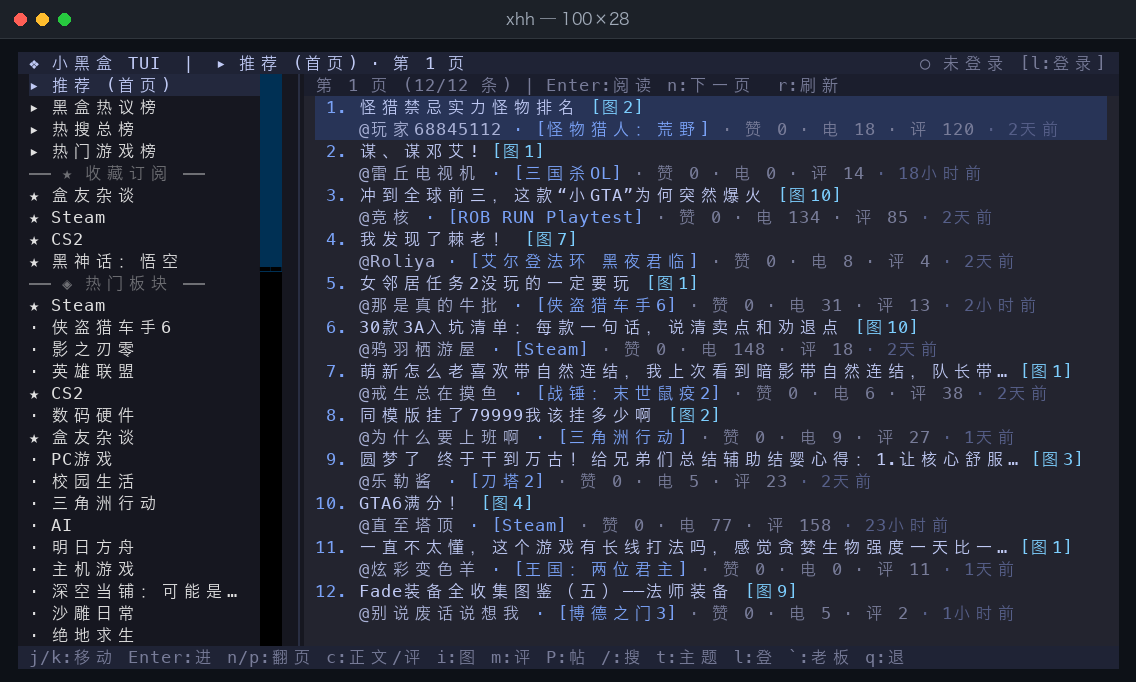
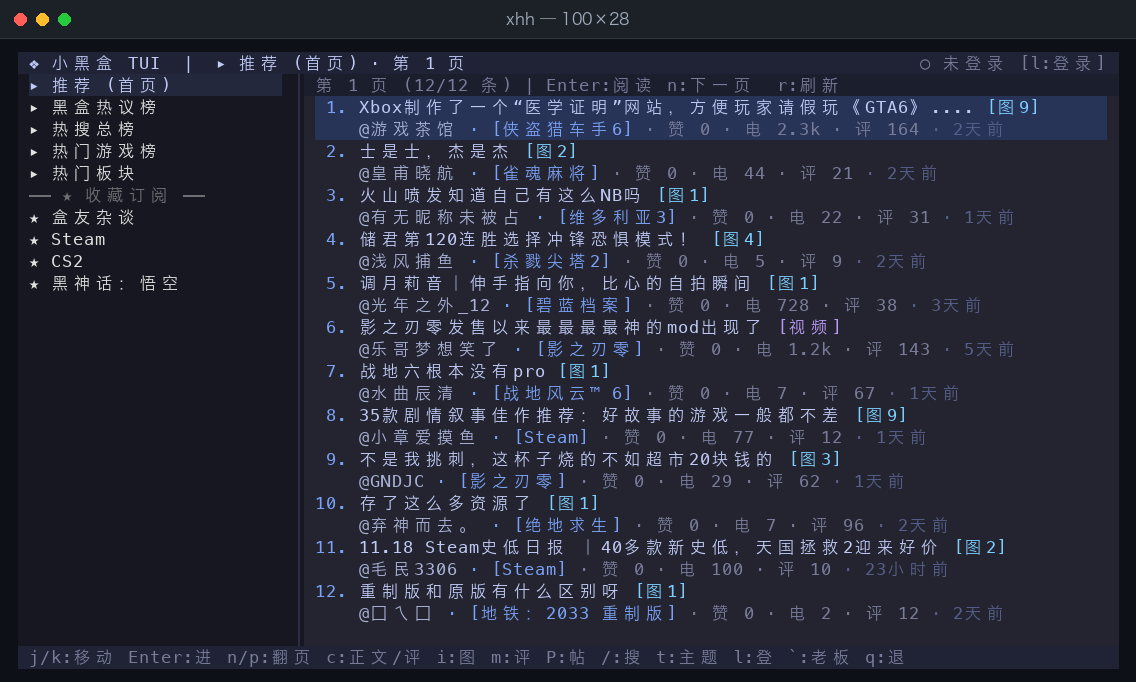
refactor(tui): hide sidebar scrollbar and move hot topics into paginated directory view

diff --git a/src/xhh/tui/app.py b/src/xhh/tui/app.py
@@ -172,11 +172,13 @@ class HeyboxApp(App[None]):
         self._sidebar_map: dict[str, dict[str, Any]] = {}
         self._hot_topics: list[TopicItem] = []
         self._subscribed_topics: list[TopicItem] = []
-        self._view_mode: str = "feed"  # "feed" | "hot" | "topic" | "search_posts"
+        self._view_mode: str = "feed"  # "feed" | "hot" | "topics" | "topic" | "search_posts"
         self._current_hot_tab: str = "news"
         self._current_topic: TopicItem | None = None
         self._topic_is_hot: bool = False
         self._topic_sort_idx: int = 0
+        self._topics_page: int = 1
+        self._topics_dir_items: list[TopicItem] = []
 
         # 缓冲与自适应分页状态
         self._feed_page: int = 1
@@ -300,6 +302,8 @@ class HeyboxApp(App[None]):
                     self._render_search_posts_page(self._feed_page)
                 elif self._view_mode == "hot" and self._hot_items:
                     self._render_hot_list()
+                elif self._view_mode == "topics" and self._hot_topics:
+                    self._render_topics_directory()
 
     def _schedule_load(self, coro: Any) -> None:
         if self._load_task and not self._load_task.done():
@@ -389,6 +393,8 @@ class HeyboxApp(App[None]):
             elif self._view_mode == "hot":
                 name = HOT_TAB_TITLES.get(self._current_hot_tab, "rank")
                 title.update(f"xhh :: {name} [p.{self._hot_page}]")
+            elif self._view_mode == "topics":
+                title.update(f"xhh :: topics [p.{self._topics_page}]")
             elif self._view_mode == "topic" and self._current_topic:
                 tab_str = "1.all/[2.hot]" if self._topic_is_hot else "[1.all]/2.hot"
                 sort_label = SORT_MODES[self._topic_sort_idx][1]
@@ -404,6 +410,8 @@ class HeyboxApp(App[None]):
         elif self._view_mode == "hot":
             name = HOT_TAB_TITLES.get(self._current_hot_tab, "热点榜单")
             title.update(f"❖ 小黑盒 TUI  |  ▸ {name} · 第 {self._hot_page} 页")
+        elif self._view_mode == "topics":
+            title.update(f"❖ 小黑盒 TUI  |  ◈ 热门板块 · 第 {self._topics_page} 页")
         elif self._view_mode == "topic" and self._current_topic:
             tab_str = "1.综合 / [2.热点]" if self._topic_is_hot else "[1.综合] / 2.热点"
             sort_label = SORT_MODES[self._topic_sort_idx][1]
@@ -426,6 +434,7 @@ class HeyboxApp(App[None]):
             ("nav:hot:news", "* 热议榜" if stealth else "▸ 黑盒热议榜", {"mode": "hot", "tab": "news"}),
             ("nav:hot:fusion", "* 热搜榜" if stealth else "▸ 热搜总榜", {"mode": "hot", "tab": "fusion"}),
             ("nav:hot:gamev2", "* 游戏榜" if stealth else "▸ 热门游戏榜", {"mode": "hot", "tab": "gamev2"}),
+            ("nav:topics", "* 热门板块" if stealth else "▸ 热门板块", {"mode": "topics"}),
         ]
         for oid, label, meta in nav_items:
             self._sidebar_map[oid] = meta
@@ -449,20 +458,6 @@ class HeyboxApp(App[None]):
             self._sidebar_map[oid] = {"mode": "topic", "topic": t}
             tname = _truncate_single_line(self._fmt_text(t.name), 18)
             options.append(Option(f"+ {tname}" if stealth else f"★ {tname}", id=oid))
-
-        options.append(Option("-- 热门板块 --" if stealth else "── ◈ 热门板块 ──", id="hdr:hot", disabled=True))
-        for t in self._hot_topics:
-            if not (t.name or "").strip():
-                continue
-            tid = str(t.topic_id)
-            oid = f"nav:topic:hot:{tid}"
-            self._sidebar_map[oid] = {"mode": "topic", "topic": t}
-            tname = _truncate_single_line(self._fmt_text(t.name), 18)
-            if stealth:
-                prefix = "* " if self.app_config.is_favorite(tid) else "- "
-            else:
-                prefix = "★ " if self.app_config.is_favorite(tid) else "· "
-            options.append(Option(f"{prefix}{tname}", id=oid))
 
         sidebar.set_options(options)
         if prev_hl is not None and 0 <= prev_hl < len(options):
@@ -620,6 +615,69 @@ class HeyboxApp(App[None]):
             feed_list.scroll_home(animate=False)
         tab_name = HOT_TAB_TITLES.get(self._current_hot_tab, "热榜")
         subbar.update(f"{tab_name} 第 {self._hot_page}/{max_page} 页 | Enter:直达板块/搜索 n/p:翻页 r:刷新")
+
+    async def _open_topics_directory(self, page: int = 1) -> None:
+        self._view_mode = "topics"
+        self._topics_page = page
+        self.query_one("#content-switcher", ContentSwitcher).current = "list-pane"
+        if not self._hot_topics:
+            self.query_one("#list-subbar", Static).update("正在加载热门板块...")
+            await self._load_categories()
+        self._render_topics_directory()
+
+    def _render_topics_directory(self) -> None:
+        subbar = self.query_one("#list-subbar", Static)
+        feed_list = self.query_one("#feed-list", OptionList)
+        self._topics_dir_items = [t for t in self._hot_topics if (t.name or "").strip()]
+        page_size = self._get_hot_page_size()
+        self._last_rendered_feed_page_size = page_size
+        max_page = max(1, (len(self._topics_dir_items) + page_size - 1) // page_size)
+        self._topics_page = max(1, min(self._topics_page, max_page))
+        start = (self._topics_page - 1) * page_size
+        page_items = self._topics_dir_items[start : start + page_size]
+        self._has_more_feeds = self._topics_page < max_page
+        self._update_top_title()
+        max_w = self._get_content_width()
+        stealth = self.is_stealth
+
+        options: list[Option] = []
+        for offset_i, topic in enumerate(page_items):
+            abs_idx = start + offset_i
+            tid = str(topic.topic_id)
+            is_fav = self.app_config.is_favorite(tid)
+            t = Text()
+            rank_str = f"{abs_idx + 1:>2}. "
+            fav_tag = (" * " if is_fav else "   ") if stealth else (" ★ " if is_fav else "   ")
+            id_tail = f"  (id:{tid})"
+            name_raw = self._fmt_text(topic.name)
+            short_name = _truncate_single_line(
+                name_raw, max(12, max_w - cell_len(rank_str) - cell_len(fav_tag) - cell_len(id_tail))
+            )
+            if stealth:
+                t.append(rank_str, style="#687078")
+                t.append(fav_tag, style="#8b949e")
+                t.append(short_name, style="#b0b8c0")
+                t.append(id_tail, style="#687078")
+            else:
+                t.append(rank_str, style="#7aa2f7")
+                t.append(fav_tag, style="#e0af68" if is_fav else "#565f89")
+                t.append(short_name, style="bold #c0caf5")
+                t.append(id_tail, style="#787c99")
+            options.append(Option(t, id=f"topic_dir:{abs_idx}"))
+
+        if not options:
+            options.append(Option(Text("暂无热门板块数据", style="dim"), disabled=True))
+        feed_list.set_options(options)
+        if options and not options[0].disabled:
+            feed_list.highlighted = 0
+            feed_list.scroll_home(animate=False)
+
+        if stealth:
+            subbar.update(f"topics p.{self._topics_page}/{max_page} ({len(self._topics_dir_items)}) | Enter:进 n/p:页 r:刷")
+        else:
+            subbar.update(
+                f"热门板块 第 {self._topics_page}/{max_page} 页 (共 {len(self._topics_dir_items)} 个) | Enter:进入板块 n/p:翻页 r:刷新"
+            )
 
     async def _load_recommended_feeds(self, page: int = 1, reset: bool = False) -> None:
         self._view_mode = "feed"
@@ -1103,6 +1161,8 @@ class HeyboxApp(App[None]):
                 self._schedule_load(self._load_recommended_feeds(page=1, reset=True))
             elif mode == "hot":
                 self._schedule_load(self._load_hot_ranking(meta["tab"]))
+            elif mode == "topics":
+                self._schedule_load(self._open_topics_directory(page=1))
             elif mode == "topic":
                 self._schedule_load(self._load_topic_feeds(meta["topic"], page=1, reset=True))
             self.query_one("#feed-list", OptionList).focus()
@@ -1119,6 +1179,10 @@ class HeyboxApp(App[None]):
                 idx = int(opt_id.split(":")[1])
                 if 0 <= idx < len(self._hot_items):
                     self._schedule_load(self._activate_hot_item(self._hot_items[idx]))
+            elif opt_id.startswith("topic_dir:"):
+                idx = int(opt_id.split(":")[1])
+                if 0 <= idx < len(self._topics_dir_items):
+                    self._schedule_load(self._load_topic_feeds(self._topics_dir_items[idx], page=1, reset=True))
             return
 
         if list_id == "comment-list":
@@ -1285,6 +1349,12 @@ class HeyboxApp(App[None]):
                 self._render_hot_list()
             return
 
+        if self._view_mode == "topics":
+            if self._has_more_feeds:
+                self._topics_page += 1
+                self._render_topics_directory()
+            return
+
         if self._view_mode == "search_posts":
             if self._has_more_feeds:
                 self._render_search_posts_page(self._feed_page + 1)
@@ -1312,6 +1382,12 @@ class HeyboxApp(App[None]):
                 self._render_hot_list()
             return
 
+        if self._view_mode == "topics":
+            if self._topics_page > 1:
+                self._topics_page -= 1
+                self._render_topics_directory()
+            return
+
         if self._view_mode == "search_posts":
             if self._feed_page > 1:
                 self._render_search_posts_page(self._feed_page - 1)
@@ -1337,6 +1413,9 @@ class HeyboxApp(App[None]):
             self._schedule_load(self._load_recommended_feeds(page=1, reset=True))
         elif self._view_mode == "hot":
             self._schedule_load(self._load_hot_ranking(self._current_hot_tab))
+        elif self._view_mode == "topics":
+            self._hot_topics = []
+            self._schedule_load(self._open_topics_directory(page=1))
         elif self._view_mode == "topic" and self._current_topic:
             self._schedule_load(self._load_topic_feeds(self._current_topic, page=1, reset=True))
 
@@ -1475,6 +1554,8 @@ class HeyboxApp(App[None]):
 
         if self._view_mode == "hot":
             self._render_hot_list()
+        elif self._view_mode == "topics":
+            self._render_topics_directory()
         elif self._view_mode == "search_posts":
             self._render_search_posts_page(self._feed_page)
         else:

diff --git a/tests/test_xhh.py b/tests/test_xhh.py
@@ -792,8 +792,25 @@ def test_tui_interactive_flows(tmp_path: Path, monkeypatch: pytest.MonkeyPatch) 
             await pilot.press("escape")
             await pilot.pause(0.1)
 
-            # 8. 切换板块并测试 1/2/s/f 快捷键
+            # 8. 左侧栏无需滚动条，支持点击「热门板块」栏目及收藏板块
             sidebar = app.query_one("#sidebar-list", OptionList)
+            assert sidebar.virtual_size.height <= sidebar.size.height
+
+            topics_nav_idx = next(
+                (i for i, opt in enumerate(sidebar.options) if opt.id == "nav:topics"),
+                None,
+            )
+            assert topics_nav_idx is not None
+            sidebar.focus()
+            sidebar.highlighted = topics_nav_idx
+            await pilot.press("enter")
+            await pilot.pause(0.2)
+            assert app._view_mode == "topics"
+            assert feed_list.option_count >= 1
+            await pilot.press("enter")
+            await pilot.pause(0.2)
+            assert app._view_mode == "topic"
+
             cs2_idx = None
             for idx, opt in enumerate(sidebar.options):
                 if opt.id and opt.id.endswith(":43"):
